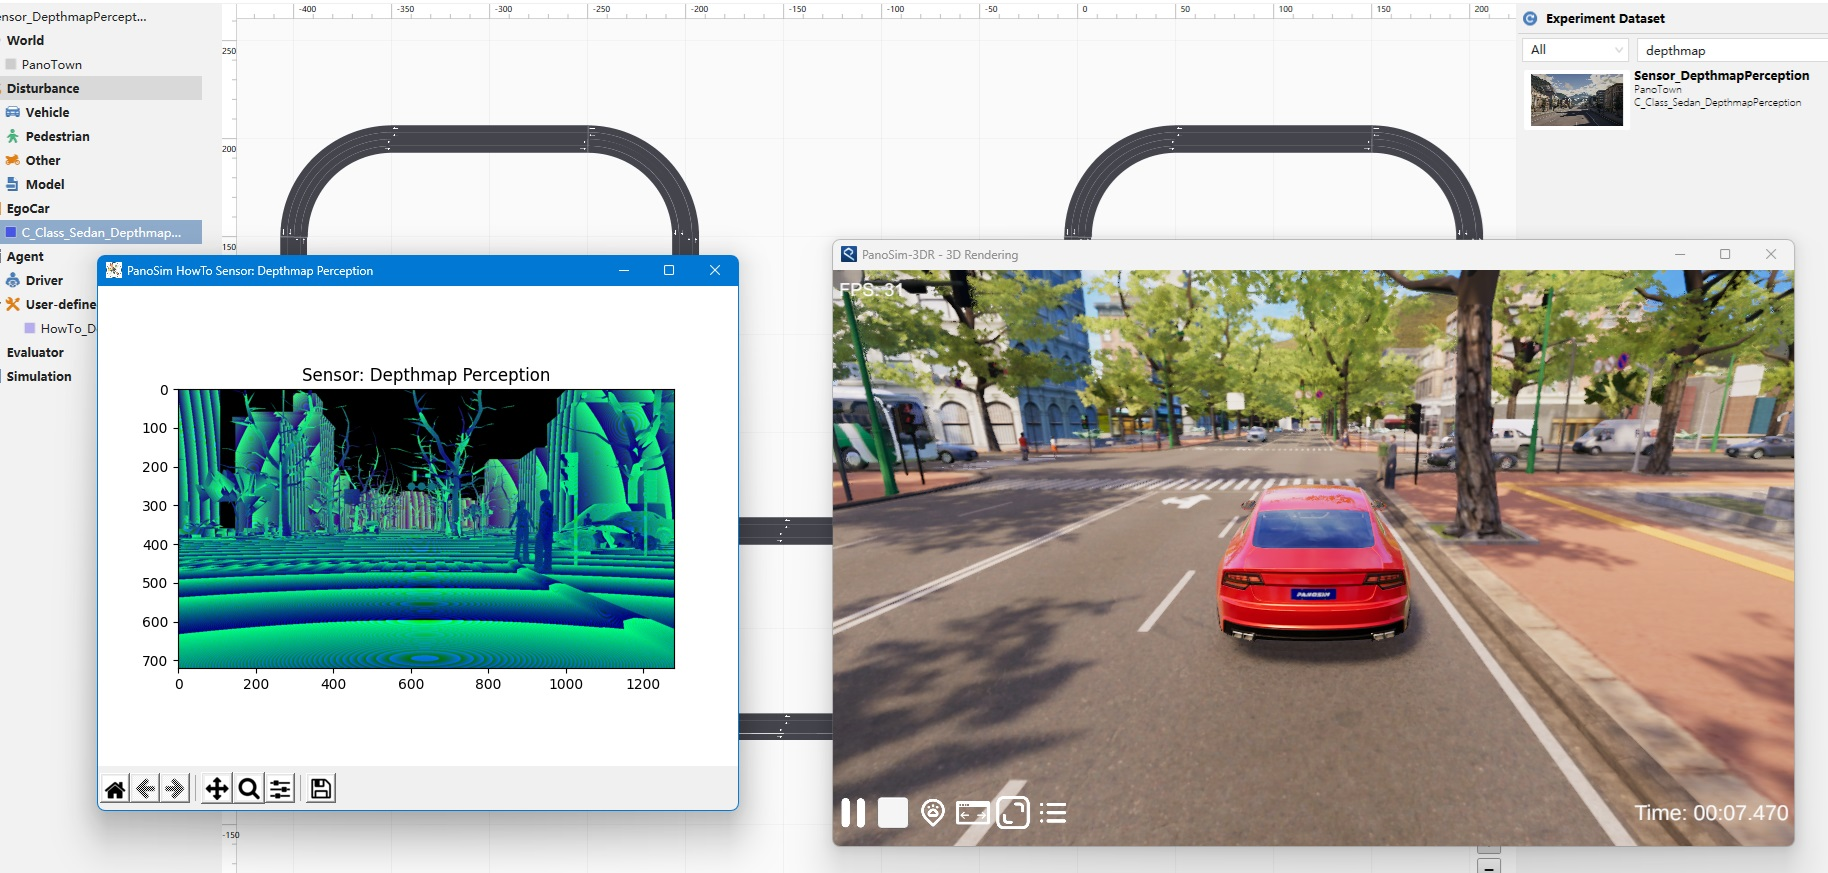
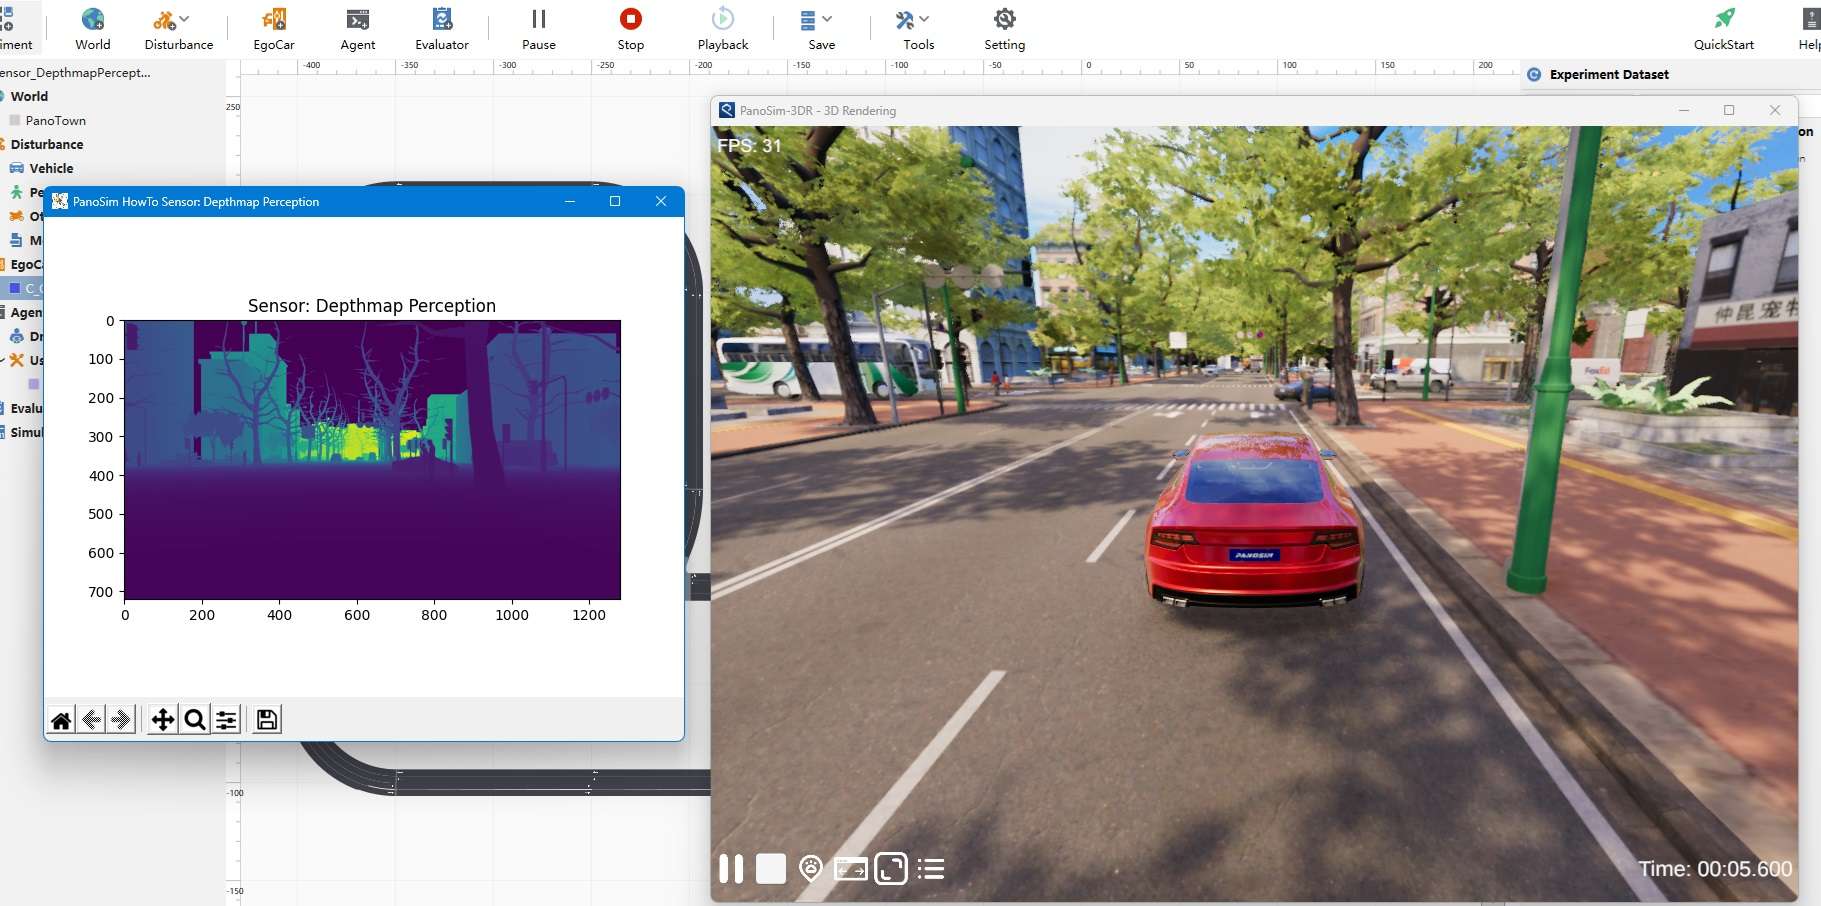
update sensor: DepthmapPerception

diff --git a/Sensor/Perception/DepthmapPerception/PanoSimDatabase/Plugin/Agent/HowTo_DepthmapPerception.py b/Sensor/Perception/DepthmapPerception/PanoSimDatabase/Plugin/Agent/HowTo_DepthmapPerception.py
@@ -15,7 +15,10 @@ def ModelOutput(userData):
         userData['last_time'] = timestamp
         plt.clf()
         plt.title('Sensor: Depthmap Perception')
-        plt.imshow(np.frombuffer(userData["sensor"].getBus()[8:], dtype=np.uint8).reshape((720, 1280, 3)))
+        rgb = np.frombuffer(userData["sensor"].getBus()[8:], dtype=np.uint8).reshape((720, 1280, 3))
+        rgb_float = np.array(rgb, dtype='f')
+        gray = (rgb_float[:,:,0] + rgb_float[:,:,1]/255.0 + rgb_float[:,:,2]/65025.0)/255
+        plt.imshow(gray)
         plt.pause(interval=0.0001)
 
 def ModelTerminate(userData):
